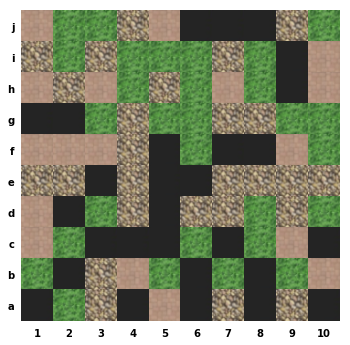
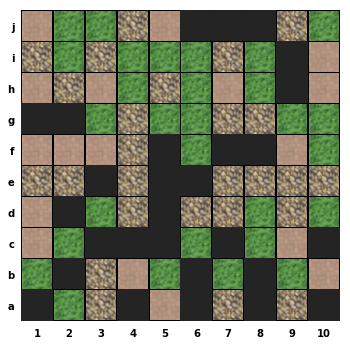
[Se agregó un cuadro de separación a las zonas]
Para una visualización más limpia del mapa se agrega un cuadro delgado negro a las zonas.

diff --git a/visualizador_ruta.py b/visualizador_ruta.py
@@ -85,15 +85,21 @@ if __name__=="__main__":
     
     # Mapa de prueba
     mapaNuevoTexturas ="""
-            1111
-            1002
-            1002
-            1112
+            1223100032
+            3232223201
+            1312321201
+            0023223322
+            1113020012
+            3303003333
+            1023033232
+            1200020210
+            2031202021
+            0230103030
             """
     
     # Ruta de Prueba
-    ruta = ['b1', 'c1', 'd1', 'd2', 'd3', 'd4']
-    
+    #ruta = ['b1', 'c1', 'd1', 'd2', 'd3', 'd4']
+    ruta =[]
     # Mostrar el mapa con la ruta
     figura = mostrar_ruta_en_mapa(mapaNuevoTexturas, ruta)
     
